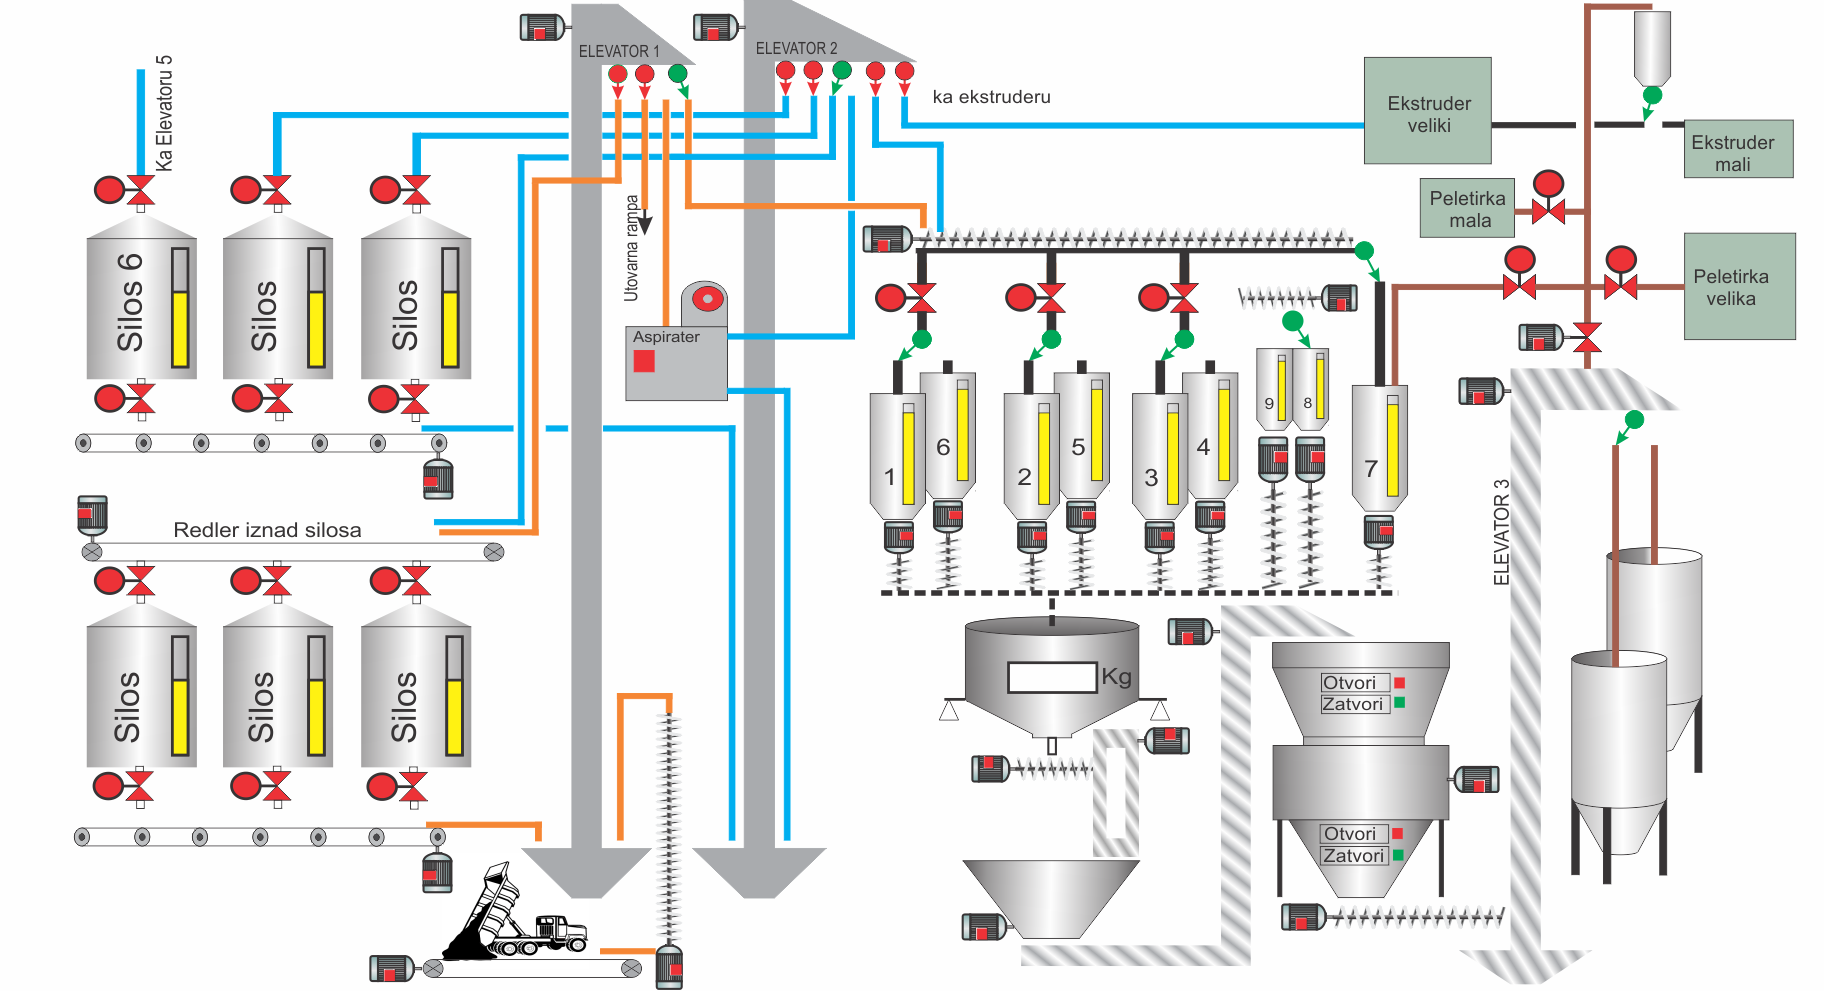
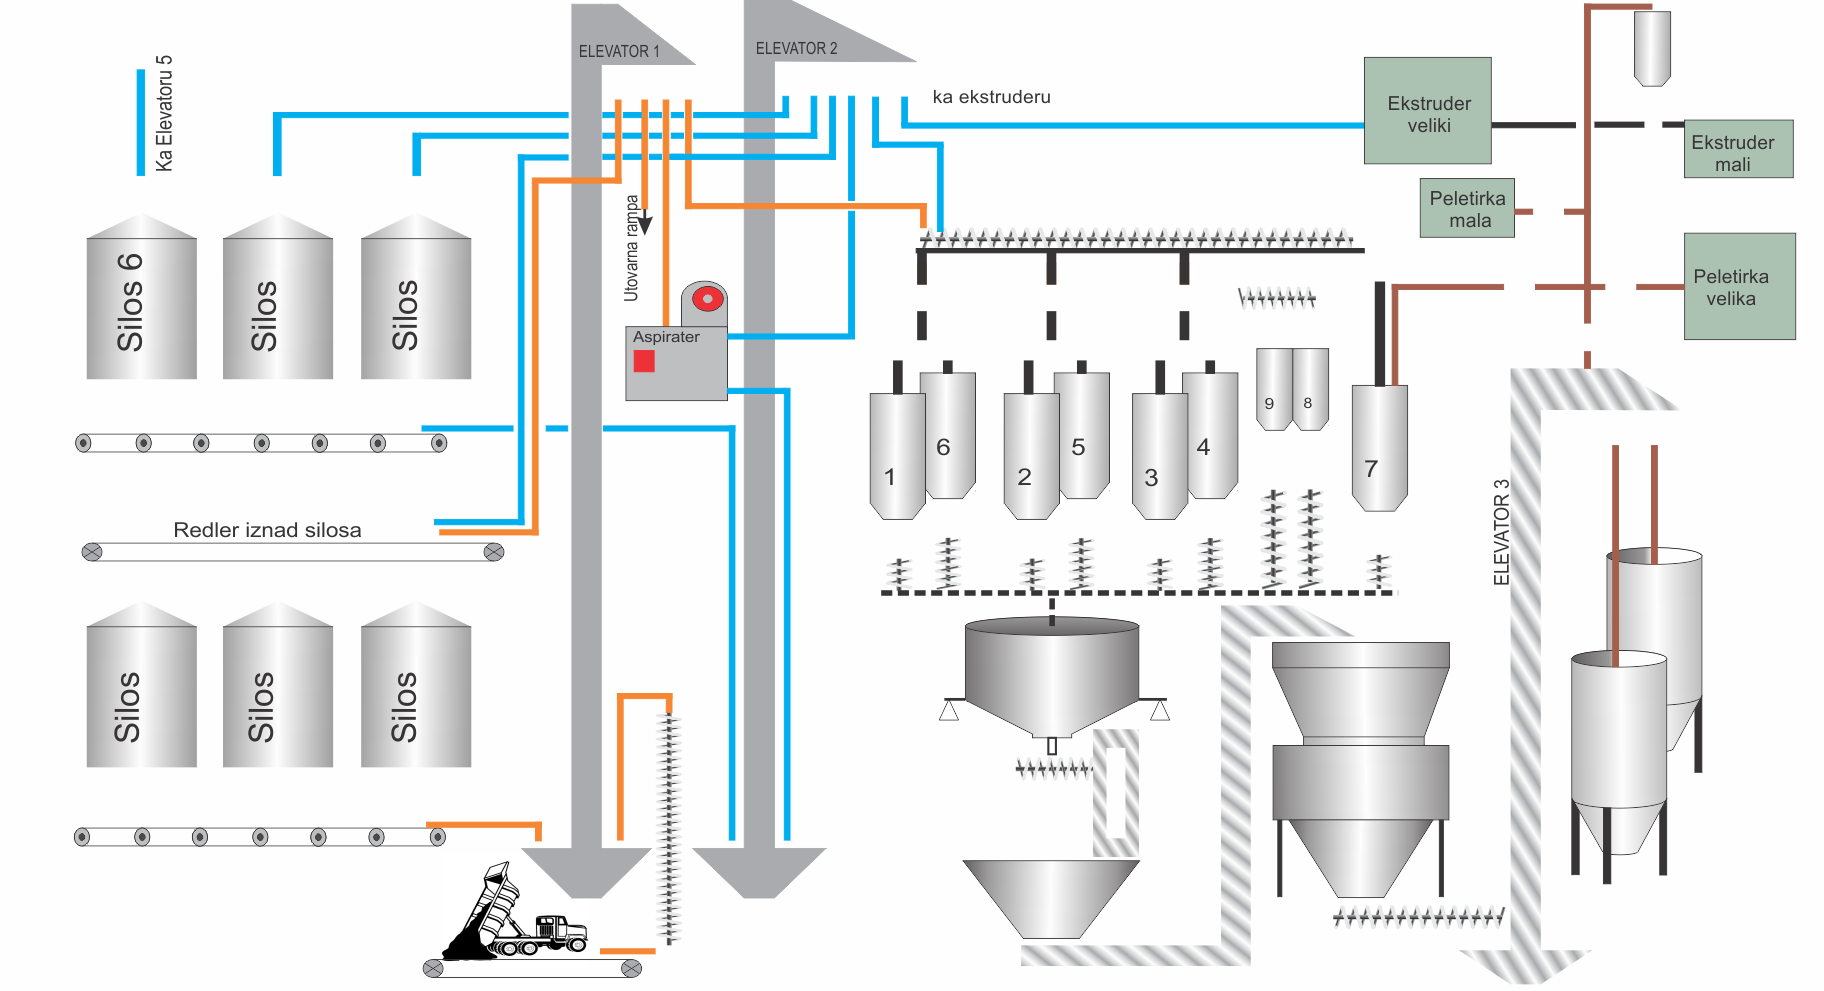
slike

diff --git a/ui/widgetNovi.py b/ui/widgetNovi.py
@@ -1,15 +1,20 @@
 
 from PyQt4.QtGui import * # @UnusedWildImport
 from PyQt4.QtCore import * # @UnusedWildImport
-
+from motor import Motor
 
 class noviWidget(QWidget):
     
     def __init__(self,parent=None):
         QWidget.__init__(self, parent)
         self.slike1 = QImage()
-        self.slike1.load("images/skica4.png")
         
+        self.slike1.load("images/skica3.png")
+        
+        self.m1 = Motor(520,15)
+        self.m2 = Motor(693,15)
+        self.m2.on()
+        self.m2.senzorOn()
         self.ctimer = QTimer()
         QObject.connect(self.ctimer, SIGNAL("timeout()"), self.timerUpdate)
         self.ctimer.start(200)   
@@ -21,9 +26,17 @@ class noviWidget(QWidget):
     def paintEvent(self, QPaintEvent):
         paint = QPainter(self)
         paint.setPen(Qt.black);
-        #paint.drawImage(QPoint(150,158+25),self.slike1[self.slika1frame])
-        #paint.drawImage(QPoint(500,160+50),self.slike2[self.slika2frame])
+
         paint.drawImage(QPoint(0,0),self.slike1)
+        
+        self.m1.nacrtaj(paint)
+        self.m2.nacrtaj(paint)
+        pen = QPen(Qt.black, 7, Qt.SolidLine)
+        paint.setPen(pen)
+        
+        #paint.drawLine(10, 40, 500, 40)
+        #paint.drawLine( 500, 40, 500, 500)
+        '''
         for i in range(0,2500,50):
             paint.drawLine(i, 40, i, 60)
             paint.drawLine(i+25, 40, i+25, 60)
@@ -32,3 +45,4 @@ class noviWidget(QWidget):
             paint.drawLine(40, i, 60, i)
             paint.drawLine(40, i+25, 60, i+25)
             paint.drawText(50, i ,str(i)) 
+        '''  

diff --git a/ui/motor.py b/ui/motor.py
@@ -1,0 +1,42 @@
+
+from PyQt4.QtGui import * # @UnusedWildImport
+from PyQt4.QtCore import * # @UnusedWildImport
+
+  
+class Motor():
+    
+    def __init__(self,x,y):
+        self.crna = QColor(0, 0, 0)
+        self.crvena = QColor(255, 0, 0)
+        self.bela = QColor(255, 255, 255)
+        self.ukljuceno = False;
+
+        self.x = x;
+        self.y = y;
+        self.dx = self.x+15;
+        self.dy = self.y+15;
+        self.motor = QImage() 
+        self.motorUkljucen = QImage() 
+        self.motor.load("images/motor1.png")
+        self.motor=self.motor.scaledToHeight(26, Qt.FastTransformation)
+        self.motorUkljucen.load("images/motorukljucen.png")
+        self.motorUkljucen=self.motorUkljucen.scaledToHeight(26, Qt.FastTransformation)   
+        self.senzor = False
+    def on(self):
+        self.ukljuceno = True;  
+    def off(self):
+        self.ukljuceno = False; 
+    def senzorOn(self):
+        self.senzor = True;
+    def senzorOff(self):
+        self.senzor = False;
+    def nacrtaj(self, paint):
+
+        if (self.ukljuceno == True):
+            paint.drawImage(QPoint(self.x,self.y),self.motorUkljucen)    
+        else:
+            paint.drawImage(QPoint(self.x,self.y),self.motor)       
+        if(self.senzor == True):
+            paint.setBrush(QColor(255, 0, 0))
+            paint.setPen(QColor(255, 0, 0))
+            paint.drawRect(self.dx,self.dy,9,9)
